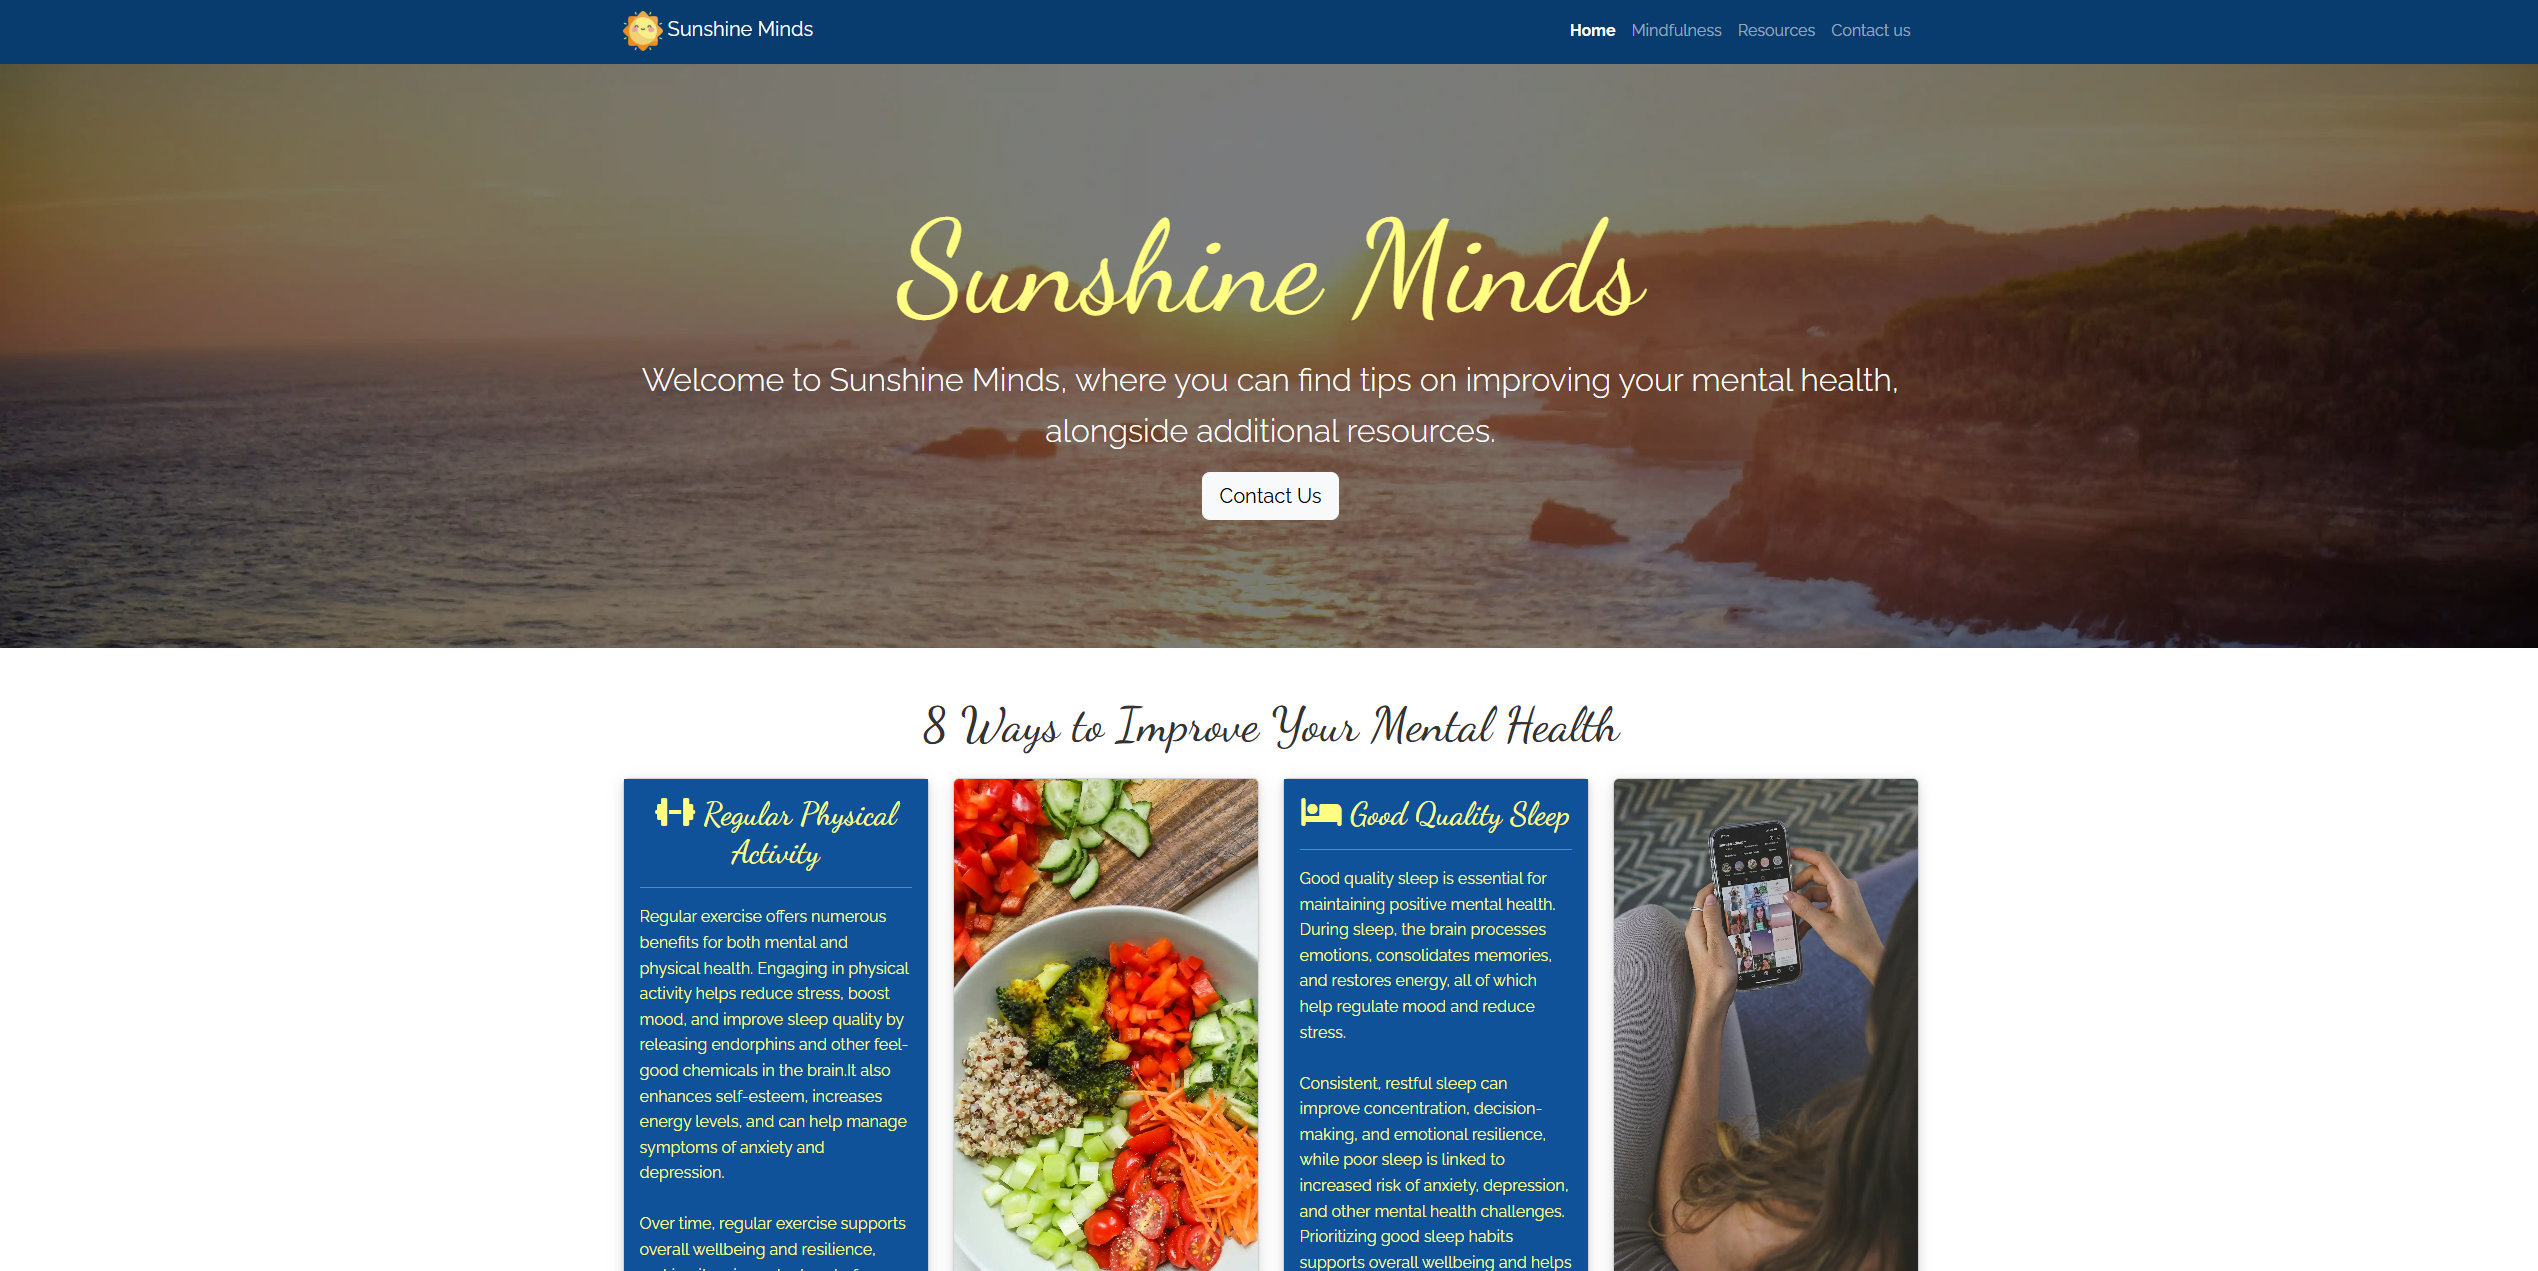
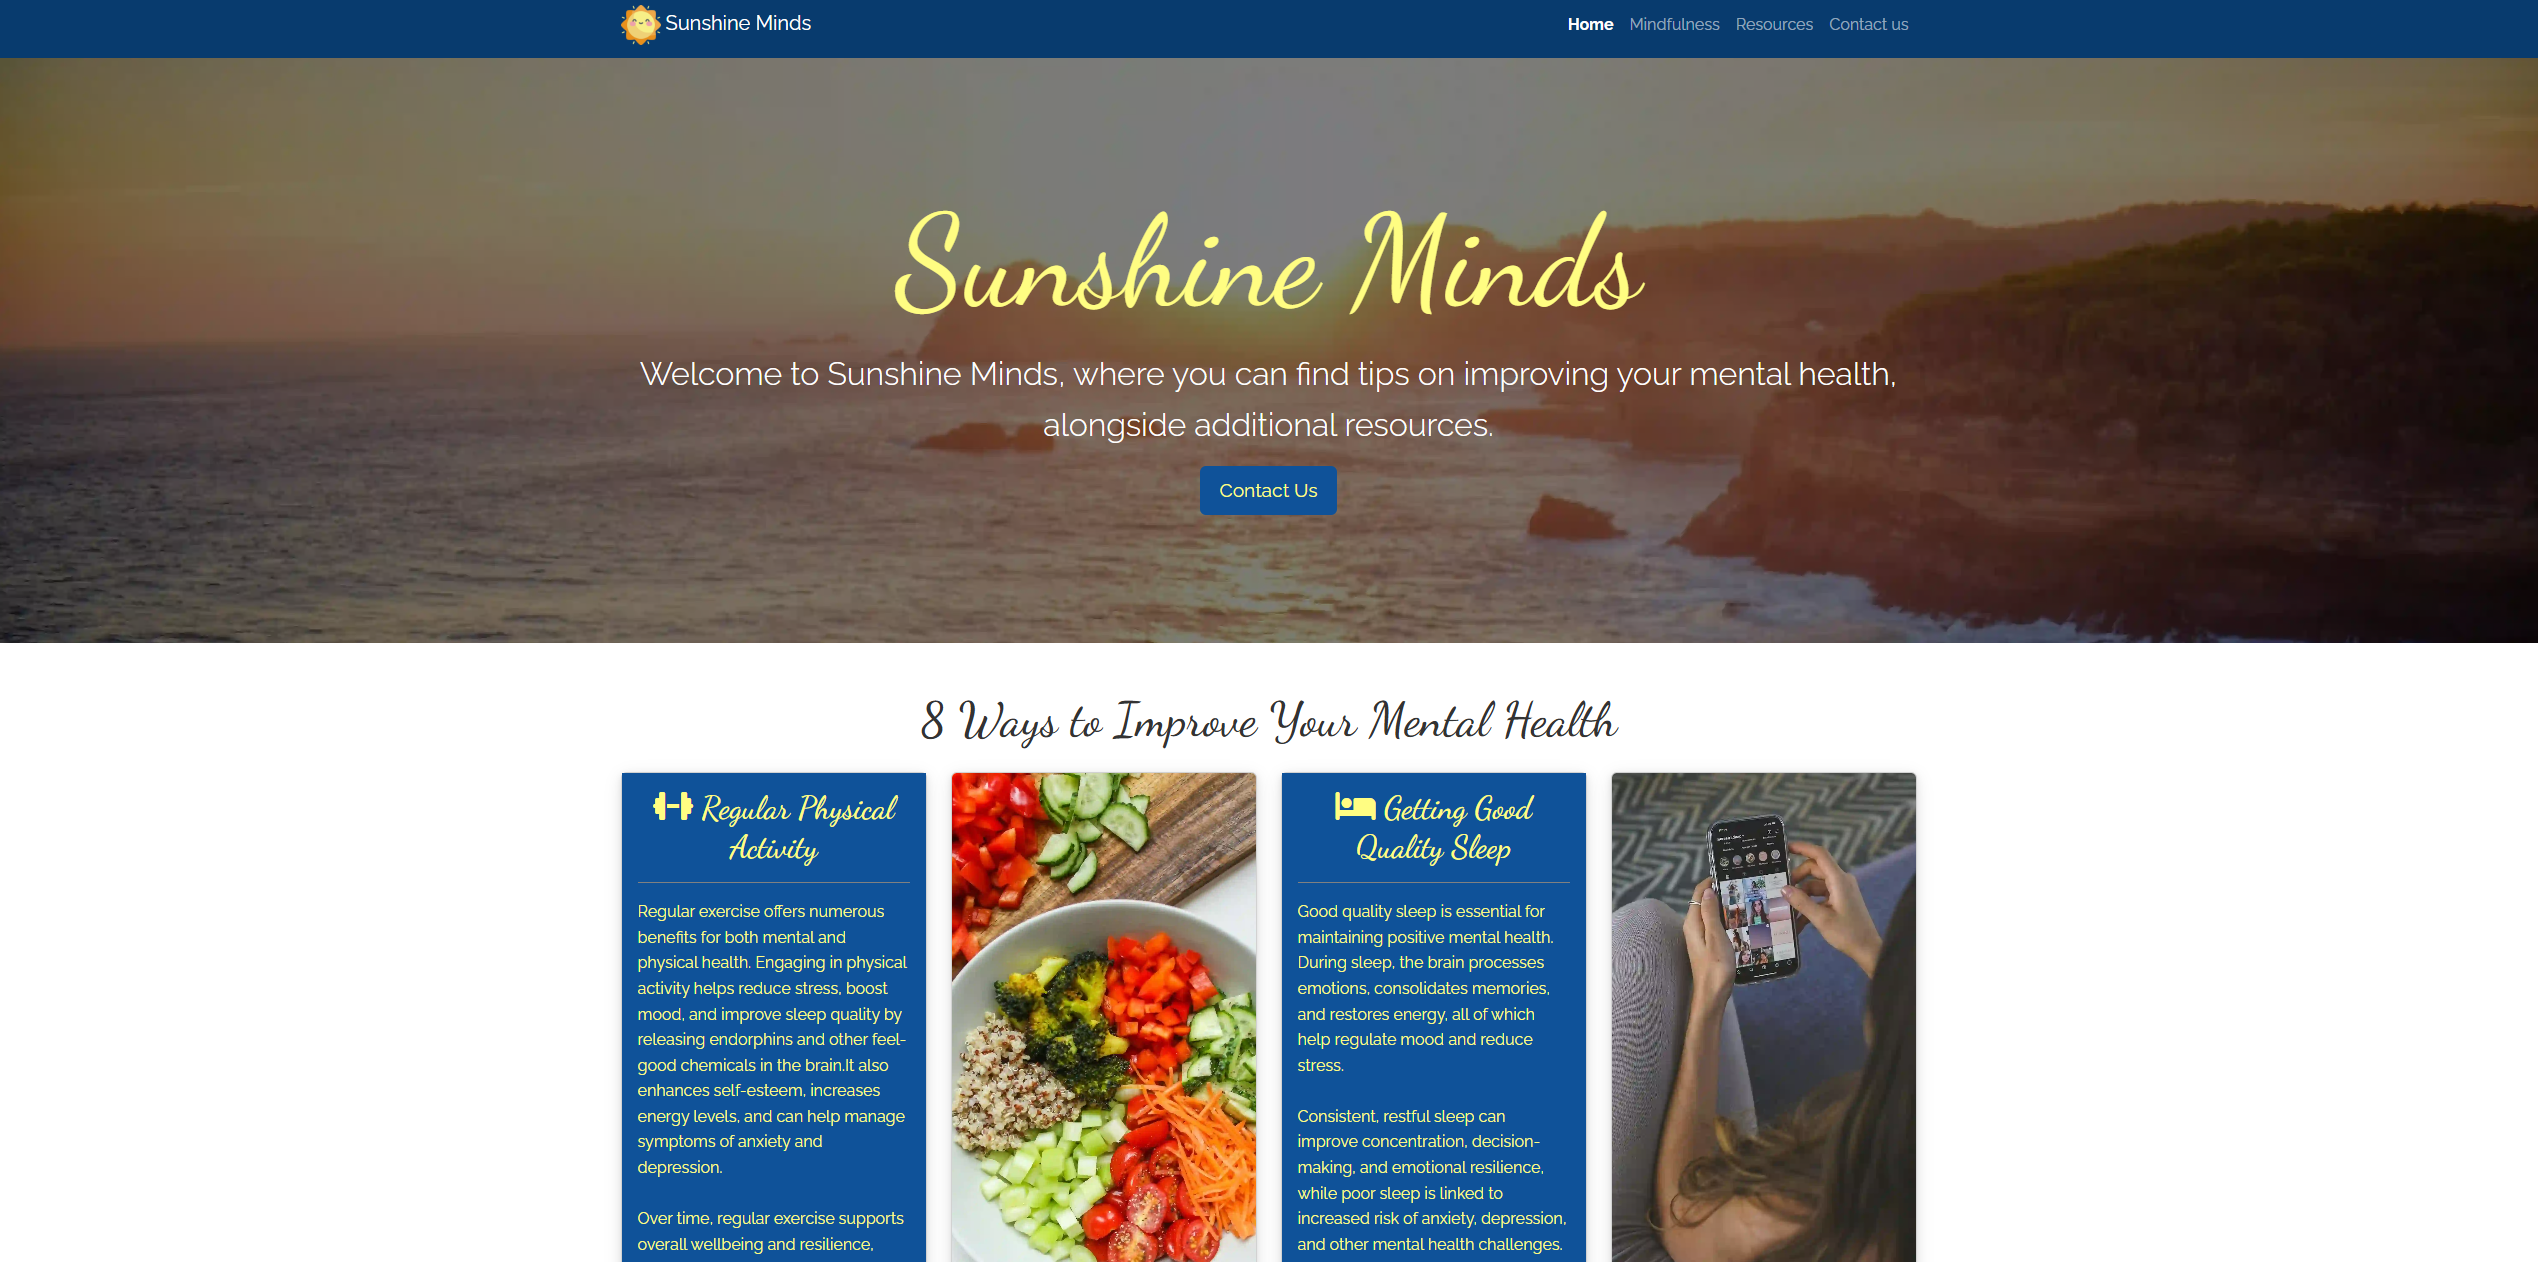
Updated index image in readme

diff --git a/index.html b/index.html
@@ -58,7 +58,7 @@
                 <span class="hero-part-1">Sunshine Minds</span>
             </h1>
             <p class="lead hero-part-2">Welcome to Sunshine Minds, where you can find tips on improving your mental health, alongside additional resources.</p>
-            <a href="contact.html" class="btn btn-light btn-lg" role="button" tabindex="0">Contact Us</a>
+            <a href="contact.html" class="btn btn-primary btn-custom" role="button" tabindex="0">Contact Us</a>
         </div>
     </header>
     <main>
